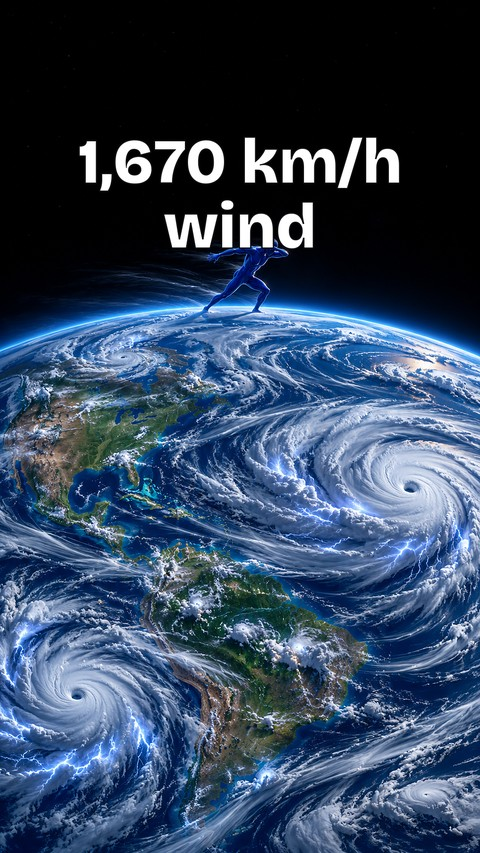
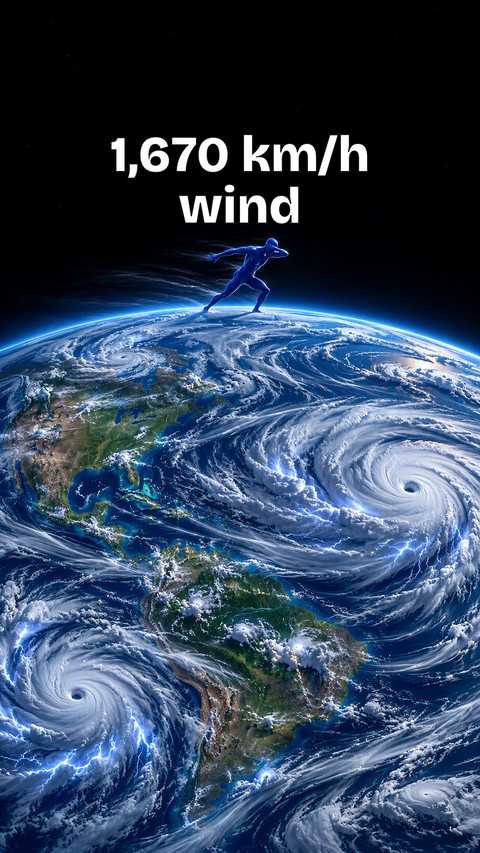
Whatif S3: capsule-figure cover variants for P6 and P7 (cover-options), capsule matting tool, art_cover refactor
Claude-Session: https://claude.ai/code/session_0192s8Y1xRpDJrHHuVmHV4P8

Changed region(s): [[0.1562, 0.1524, 0.8438, 0.3048]]

diff --git a/films/channels/whatif/longform/earth-spin/parts/art_cover.py b/films/channels/whatif/longform/earth-spin/parts/art_cover.py
@@ -38,29 +38,30 @@ def words(im, text, x, y, fs, align="left", lines=None):
 def save(im, *paths, q=92):
     for p in paths: Path(p).parent.mkdir(parents=True, exist_ok=True); im.save(p, quality=q, subsampling=0)
 S3 = W / "compilations/s3"
-# 16:9: the long-film thumbnail and the two other options
-sun, sea, flt = load("sun-streak-90-minute-day.png"), load("oceans-bulge-equator.png"), load("float-8x-lighter.png")
-A = words(finish(sun, (1920, 1080)), "", 70, 60, 190, lines=["90-MINUTE", "DAY"])
-B = words(finish(sea, (1920, 1080)), "", 70, 50, 170, lines=["OCEANS", "PILE UP"])
-C = words(finish(flt, (1920, 1080)), "", 70, 60, 190, lines=["8x", "LIGHTER"])
-save(A, S3 / "thumb-options/A-90-minute-day-art.jpg", S3 / "thumbnail.jpg"); save(B, S3 / "thumb-options/B-oceans-pile-up-art.jpg"); save(C, S3 / "thumb-options/C-8x-lighter-art.jpg")
 # 9:16 covers (1080x1920) laid out for the 3:4 profile-grid crop (the centre 1080x1440, y 240-1680): the words in the upper half of that band, the subject inside it, the bottom of the band and the right edge clear
-def cover(n, im, box, lines, fs=140, ty=280):
+FS = {3: 112, 5: 140}
+def cover(n, im, box, lines, fs=None, ty=280, save_to=True):
+    fs = fs or FS.get(n, 140)
     size = (1080, 1920); out = extend(im, box); out = finish(out, size)
     f = ImageFont.truetype(str(FONT), fs)
     try: f.set_variation_by_name("ExtraBold")
     except Exception: pass
     while fs > 70 and max(ImageFont.truetype(str(FONT), fs).getlength(l) for l in lines) > 0.9 * size[0]: fs -= 6
     out = words(out, "", 0, ty, fs, align="center", lines=lines)
+    if not save_to: return out
     for base in (W / f"ep{12 + n}/out", ES / f"parts/part{n}/out"):
         save(out, base / f"possibility-lab-s3p{n}-cover.jpg"); out.resize((480, 853), Image.LANCZOS).save(base / f"possibility-lab-s3p{n}-cover-480.jpg", quality=90)
         out.crop((0, 240, 1080, 1680)).save(base / f"possibility-lab-s3p{n}-cover-grid-3x4.jpg", quality=90)
+sun, sea, flt = load("sun-streak-90-minute-day.png"), load("oceans-bulge-equator.png"), load("float-8x-lighter.png")
 storm, arc1, arc2 = load("storm-fury.png"), load("sunrises-arc-1.png"), load("sunrises-arc-2.png")
-cover(2, sun, (350, -40, 910, 956), ["Sunset in", "6 hours"])
-cover(3, storm, (0, 0, 941, 1672), ["1,670 km/h", "wind"])
-cover(4, sea, (236, -700, 1436, 1433), ["Seas pile", "up here"])
-cover(5, storm, (0, -190, 941, 1482), ["Calm afternoons", "end"])
-cover(6, arc1, (103, 0, 947, 1500), ["6,000 days", "a year"])
-cover(7, arc2, (0, 0, 941, 1672), ["Sunset", "in 1 hour"])
-cover(8, flt, (536, -446, 1483, 1238), ["Jump 4", "meters high"])
-print("ok")
+BOXES = {2: (sun, (350, -40, 910, 956), ["Sunset in", "6 hours"]), 3: (storm, (0, 0, 941, 1672), ["1,670 km/h", "wind"]), 4: (sea, (236, -700, 1436, 1433), ["Seas pile", "up here"]),
+         5: (storm, (0, -190, 941, 1482), ["Calm afternoons", "end"]), 6: (arc1, (103, 0, 947, 1500), ["6,000 days", "a year"]), 7: (arc2, (0, 0, 941, 1672), ["Sunset", "in 1 hour"]), 8: (flt, (536, -446, 1483, 1238), ["Jump 4", "meters high"])}
+if __name__ == "__main__":
+    S3 = W / "compilations/s3"
+    # 16:9: the long-film thumbnail and the two other options
+    A = words(finish(sun, (1920, 1080)), "", 70, 60, 190, lines=["90-MINUTE", "DAY"])
+    B = words(finish(sea, (1920, 1080)), "", 70, 50, 170, lines=["OCEANS", "PILE UP"])
+    C = words(finish(flt, (1920, 1080)), "", 70, 60, 190, lines=["8x", "LIGHTER"])
+    save(A, S3 / "thumb-options/A-90-minute-day-art.jpg", S3 / "thumbnail.jpg"); save(B, S3 / "thumb-options/B-oceans-pile-up-art.jpg"); save(C, S3 / "thumb-options/C-8x-lighter-art.jpg")
+    for n, (im, box, lines) in BOXES.items(): cover(n, im, box, lines)
+    print("ok")

diff --git a/films/channels/whatif/longform/earth-spin/parts/capsule_cover.py b/films/channels/whatif/longform/earth-spin/parts/capsule_cover.py
@@ -1,0 +1,43 @@
+"""Cover variants with OUR capsule mannequin instead of the owner's glossy figure (cover-options/pN-capsule.jpg): the glossy figure is segmented (GrabCut) and painted out (inpaint),
+the capsule (art/capsule/*.png, from capsule.py) is composited at the same small size and spot with a contact shadow, a rim light from the picture's Sun and matched grain.
+  python3 -I .../parts/capsule_cover.py [3 5 6 7]"""
+import sys
+from pathlib import Path
+import cv2, numpy as np
+from PIL import Image, ImageDraw, ImageFilter
+sys.path.insert(0, str(Path(__file__).resolve().parent))
+import art_cover as A
+SPEC = {   # part: (source image, glossy figure box x0,y0,x1,y1 in source px, capsule png, rim colour or None, flip)
+ 3: ("storm", (385, 455, 580, 625), "lean", (170, 200, 240), False),
+ 5: ("storm", (385, 455, 580, 625), "lean", (170, 200, 240), False),
+ 6: ("arc1", (488, 846, 560, 1022), "stand", (255, 170, 70), False),
+ 7: ("arc2", (436, 905, 504, 1064), "stand", (255, 170, 70), False),
+}
+def variant(part):
+    srcname, (x0, y0, x1, y1), pose, rim, flip = SPEC[part]; im = A.load({"storm": "storm-fury.png", "arc1": "sunrises-arc-1.png", "arc2": "sunrises-arc-2.png"}[srcname])
+    a = cv2.cvtColor(np.asarray(im), cv2.COLOR_RGB2BGR); h, w = a.shape[:2]
+    mask = np.zeros((h, w), np.uint8); gc = np.zeros((h, w), np.uint8); gc[:] = cv2.GC_BGD
+    gc[y0:y1, x0:x1] = cv2.GC_PR_BGD; gc[y0 + 8:y1 - 4, (x0 + x1) // 2 - 6:(x0 + x1) // 2 + 6] = cv2.GC_FGD
+    cv2.grabCut(a, gc, None, np.zeros((1, 65)), np.zeros((1, 65)), 6, cv2.GC_INIT_WITH_MASK)
+    mask[(gc == cv2.GC_FGD) | (gc == cv2.GC_PR_FGD)] = 255; mask = cv2.dilate(mask, np.ones((5, 5), np.uint8), iterations=2)
+    clean = cv2.inpaint(a, mask, 7, cv2.INPAINT_TELEA)
+    base = Image.fromarray(cv2.cvtColor(clean, cv2.COLOR_BGR2RGB)).convert("RGBA")
+    cap = Image.open(A.ES / f"art/capsule/{pose}.png").convert("RGBA")
+    if flip: cap = cap.transpose(Image.FLIP_LEFT_RIGHT)
+    H = int((y1 - y0) * 0.95); cap = cap.resize((int(cap.width * H / cap.height), H), Image.LANCZOS)
+    arr = np.asarray(cap).astype(np.float32); al = arr[..., 3:] / 255.0
+    yy = np.linspace(1, 0, cap.height)[:, None, None]                                  # warm rim from the Sun above the figure
+    arr[..., :3] = np.clip(arr[..., :3] * (0.78 + 0.1 * (1 - yy)) + np.array(rim, np.float32) * 0.22 * (yy ** 2) * 1.0, 0, 255)
+    cap = Image.fromarray(np.dstack([arr[..., :3], al[..., 0] * 255]).astype(np.uint8), "RGBA").filter(ImageFilter.GaussianBlur(0.7))
+    fx, fy = (x0 + x1) // 2, y1 - 6                                                     # the feet where the glossy figure stood
+    sh = Image.new("RGBA", base.size, (0, 0, 0, 0)); sw = int(cap.width * 1.1)
+    ell = Image.new("L", base.size, 0);     ImageDraw.Draw(ell).ellipse((fx - sw // 2, fy - 4, fx + sw // 2, fy + 8), fill=120); ell = ell.filter(ImageFilter.GaussianBlur(4))
+    base.alpha_composite(Image.merge("RGBA", (Image.new("L", base.size, 0),) * 3 + (ell,)))
+    base.alpha_composite(cap, (fx - cap.width // 2, fy - cap.height))
+    out = np.asarray(base.convert("RGB")).astype(np.float32); out += np.random.default_rng(3).normal(0, 2.2, out.shape)       # grain like the photo
+    return Image.fromarray(np.clip(out, 0, 255).astype(np.uint8))
+if __name__ == "__main__":
+    for n in [int(x) for x in sys.argv[1:]] or list(SPEC):
+        im2 = variant(n); _, box, lines = A.BOXES[n]
+        out = A.cover(n, im2, box, lines, save_to=False); d = A.W / f"ep{12 + n}/out/cover-options"; A.save(out, d / f"p{n}-capsule.jpg")
+        out.crop((0, 240, 1080, 1680)).save(d / f"p{n}-capsule-grid-3x4.jpg", quality=90); print("p", n, "capsule cover ->", d)

diff --git a/films/channels/whatif/longform/earth-spin/parts/capsule.py b/films/channels/whatif/longform/earth-spin/parts/capsule.py
@@ -1,0 +1,26 @@
+"""The film's capsule mannequin as a transparent PNG for the cover variants (cover-options/<part>-capsule.jpg): rendered on black and on white by scene.mjs (hero pose, figure only),
+the alpha recovered from the two renders. Output: art/capsule/<name>.png (RGBA, tight crop).
+  python3 -I .../parts/capsule.py NAME ARMS TILT [LIFT]"""
+import glob, json, subprocess, sys
+from pathlib import Path
+import numpy as np
+from PIL import Image
+HERE = Path(__file__).resolve().parent; ES = HERE.parent; repo = HERE.parents[5]
+name, arms, tilt = sys.argv[1], float(sys.argv[2]), float(sys.argv[3]); lift = float(sys.argv[4]) if len(sys.argv) > 4 else 0.0
+OUT = ES / "art/capsule"; OUT.mkdir(parents=True, exist_ok=True)
+imgs = []
+for bg in (0.0, 1.0):
+    f = json.loads((HERE / "part1/film.json").read_text())
+    f.update(captions=[], badges=[], voice=[], thumb=True, hero={"arms": arms, "tilt": tilt, "lift": lift}, figOnly={"bg": bg}, cams=[{"t0": -1.0, "mode": "hero"}])
+    f["title"] = {**f["title"], "t0": -20.0, "t1": -19.0, "sig": -18.0}; f["end"] = dict(f["end"]); f["endCard"] = 9999.0
+    f["theme"] = "../../../../theme.json"; f["scene"] = "../../scene.mjs"
+    D = HERE / "capsule-film"; D.mkdir(exist_ok=True); (D / "film.json").write_text(json.dumps(f, indent=1))
+    b = f"/tmp/capsule-{name}-{int(bg)}"; subprocess.run(["rm", "-rf", b])
+    subprocess.run(["node", str(repo / "kits/cinema/film/render.mjs"), "--film", str(D), "--tier", "final", "--aspect", "9x16", "--times", "28", "--build", b, "--share-cpu"], check=True, capture_output=True)
+    imgs.append(np.asarray(Image.open(glob.glob(f"{b}/final/9x16/frames/*/*.png")[0]).convert("RGB")).astype(np.float32))
+k, w = imgs
+WB = float(w[5, 5].mean())                                                         # the grey backdrop's value (below the bloom threshold)
+alpha = np.clip(1.0 - (w - k).mean(axis=2) / WB, 0, 1)                        # white-black difference = how much background shows through
+rgb = np.where(alpha[..., None] > 0.02, k / np.maximum(alpha[..., None], 0.02), 0).clip(0, 255)       # premultiplied against black
+ys, xs = np.where(alpha > 0.25); box = (xs.min() - 20, ys.min() - 20, xs.max() + 20, ys.max() + 20)
+im = Image.fromarray(np.dstack([rgb, alpha * 255]).astype(np.uint8), "RGBA").crop(box); im.save(OUT / f"{name}.png"); print(name, im.size)
